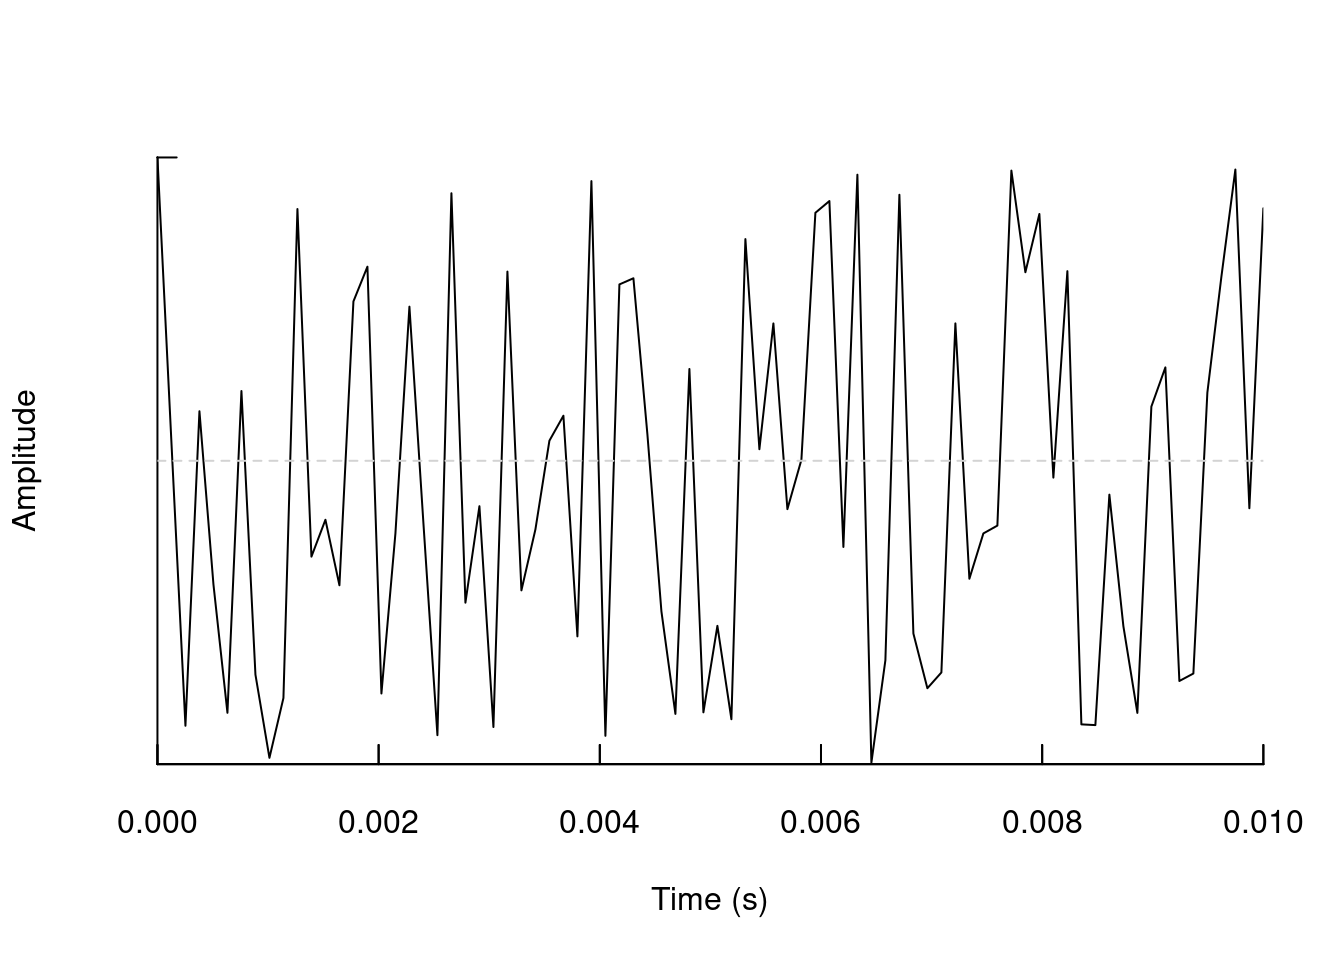
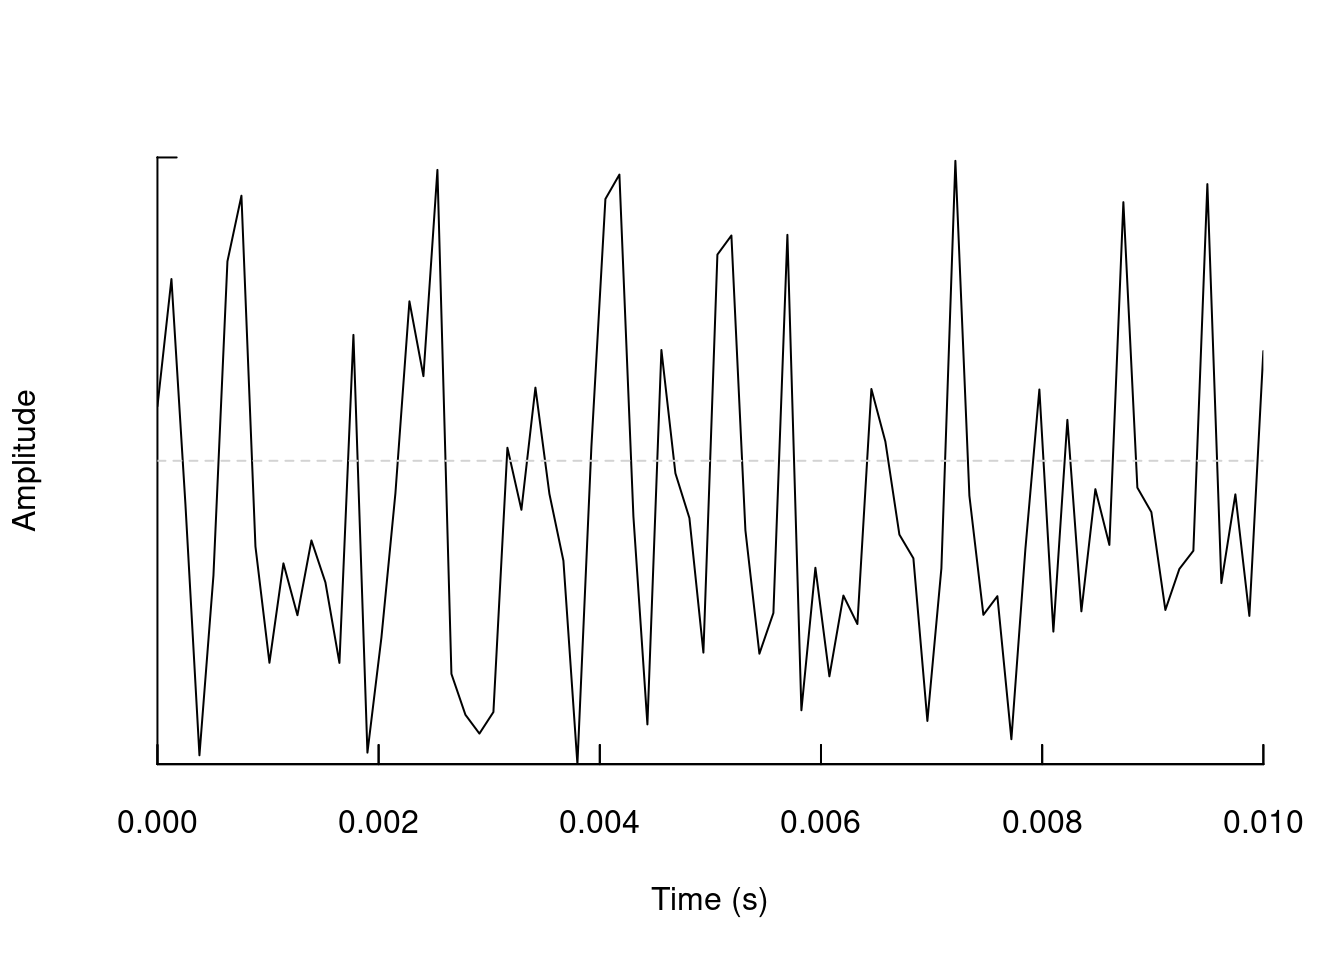
fix sound color

diff --git a/docs/sound.html b/docs/sound.html
@@ -505,7 +505,7 @@ code span.wa { color: #60a0b0; font-weight: bold; font-style: italic; } /* Warni
 <span id="cb18-3"><a href="#cb18-3" aria-hidden="true" tabindex="-1"></a><span class="fu">str</span>(s4)</span></code><button title="Copy to Clipboard" class="code-copy-button"><i class="bi"></i></button></pre></div>
 </details>
 <div class="cell-output cell-output-stdout">
-<pre><code> Time-Series [1:4001] from 0 to 0.5: 0.9997 0.0603 -0.8731 0.1633 -0.4072 ...</code></pre>
+<pre><code> Time-Series [1:4001] from 0 to 0.5: 0.174 0.578 -0.139 -0.937 -0.365 ...</code></pre>
 </div>
 </div>
 <p>&nbsp;</p>
